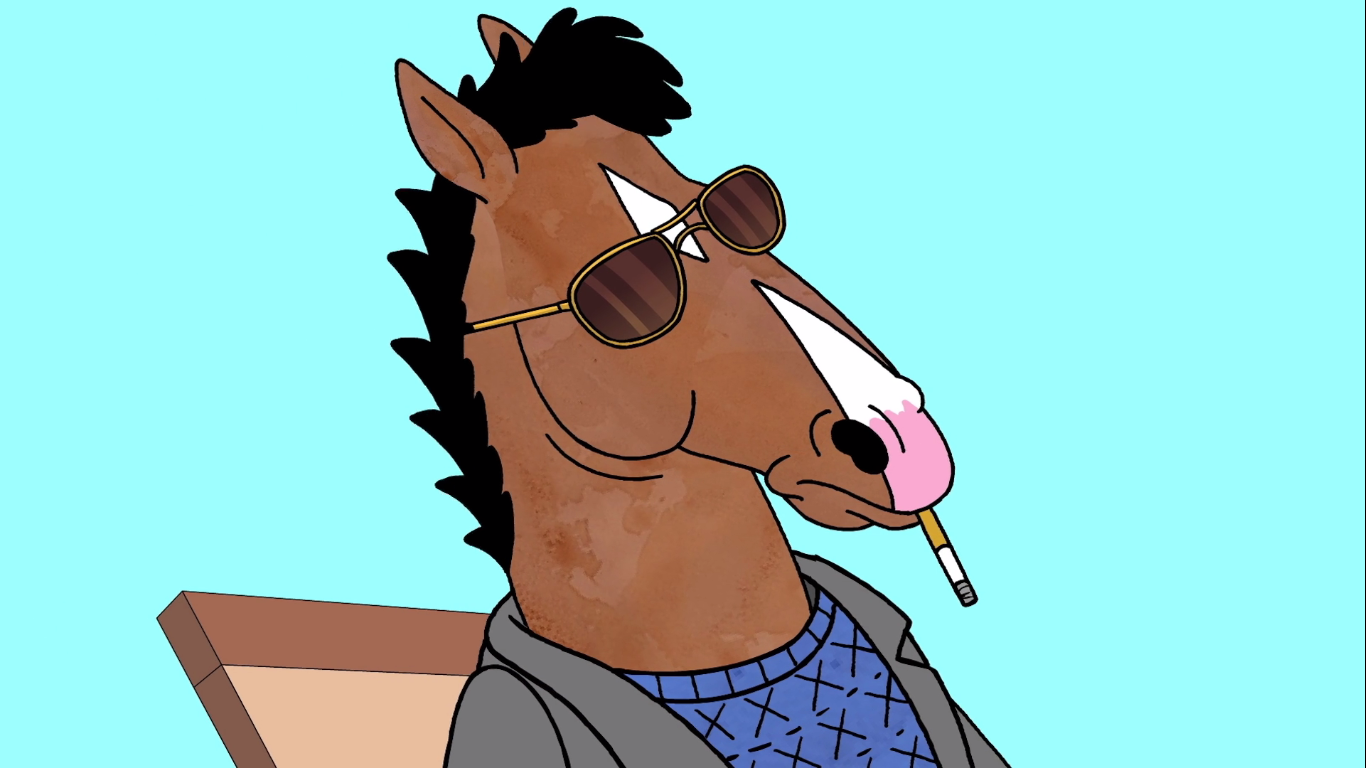
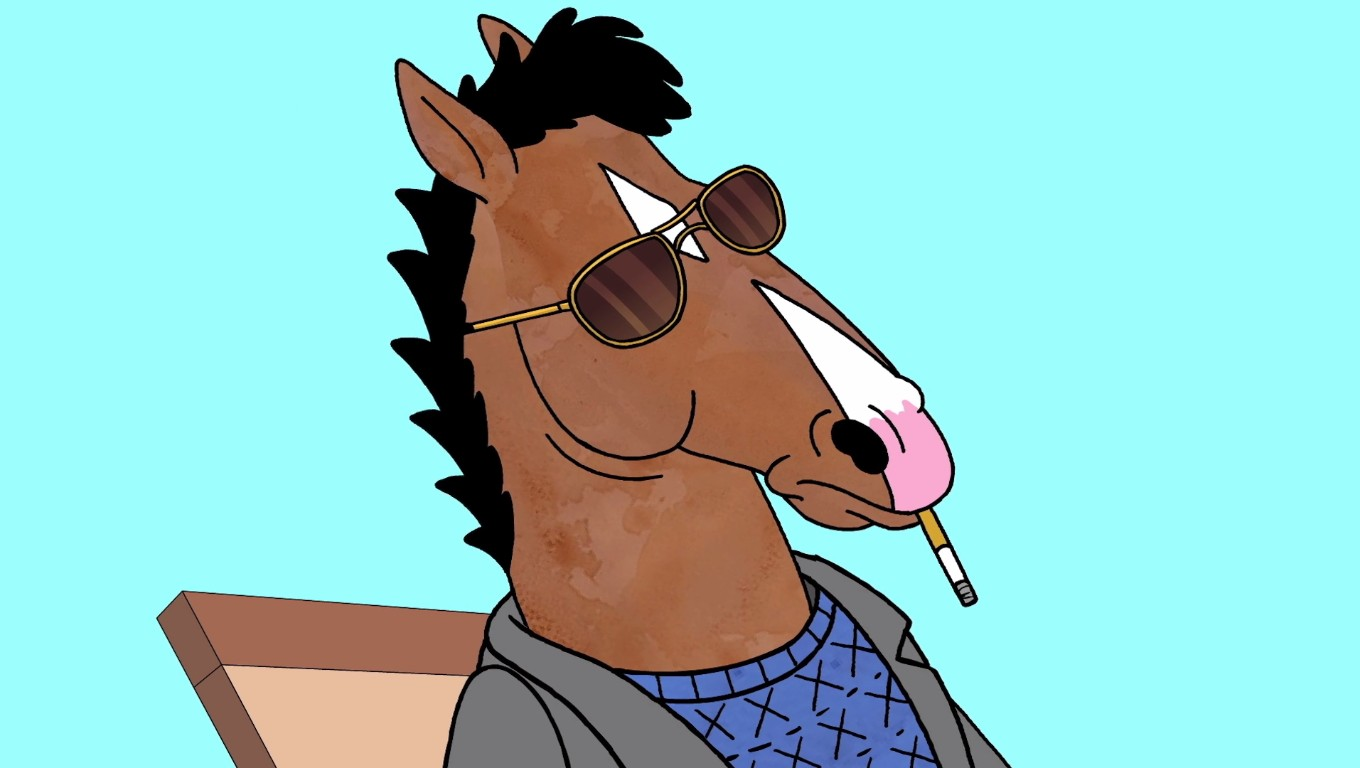
Changed the way the home image worked and altered the original image file

diff --git a/src/screens/History/History.js b/src/screens/History/History.js
@@ -43,6 +43,12 @@ const History = () => {
         description="Performed the assigned game as per company policy and procedures. Responsible for providing exceptional guest service and enjoyment for all patrons. Accurate application of math and using critical thinking skills to keep games running smoothly. 
         Made payoffs and handled other customer table actions."
       />
+      <Job
+        title="Store Manager"
+        company="Dragon's Den"
+        date="2013-2014"
+        description=""
+      />
     </div>
   );
 };

diff --git a/src/screens/Homepage/Homepage.css b/src/screens/Homepage/Homepage.css
@@ -1,5 +1,12 @@
 #background {
-  background-image: url("../../assets/Bojack.jpg");
+  /* background-image: url("../../assets/Bojack.jpg"); */
   background-size: cover;
-  height: 768px;
+  /* height: 768px; */
+  display: flex;
+  justify-content: center;
+  background-color: #9dfefe;
+}
+#img {
+  width: 70%;
+  display: flex;
 }

diff --git a/src/screens/Homepage/Homepage.js b/src/screens/Homepage/Homepage.js
@@ -1,8 +1,12 @@
 import React from "react";
 import "./Homepage.css";
-
+import img from "../../assets/Bojack.jpg";
 const Homepage = () => {
-  return <div id="background"></div>;
+  return (
+    <div id="background">
+      <img src={img} id="img" />
+    </div>
+  );
 };
 
 export default Homepage;
